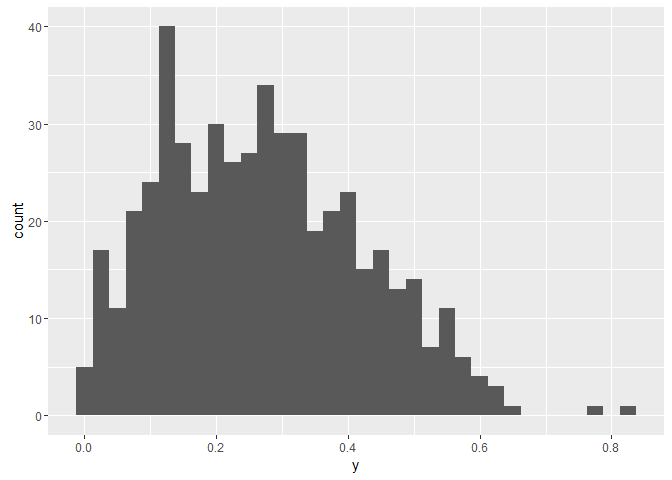
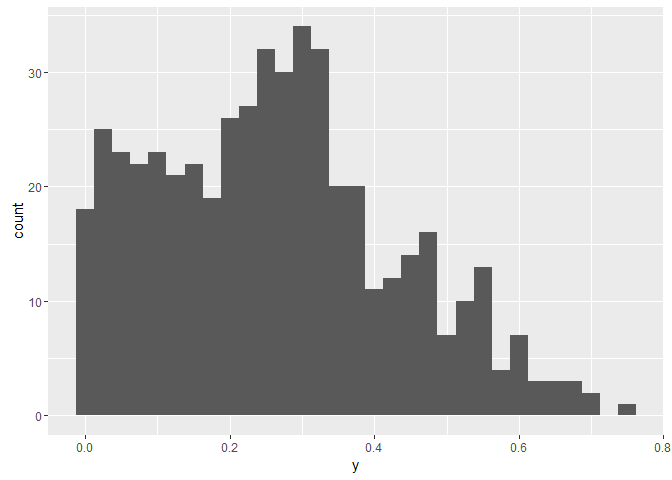
Updated with regression on precision term and posterior predictive check.

diff --git a/README.md b/README.md
@@ -16,16 +16,19 @@ library(betareg)
 library(rstan)
 library(dplyr)
 
+
 N = 500
 x1 = rnorm(N)
 x2 = rnorm(N)
 X = cbind(1, x1, x2)
 beta = c(-1,.2,-.3)
-mu = plogis(X%*%beta)  # add noise if desired + rnorm(N, sd=.01)
-phi = 10
+gamma = c(2, .25, -.5)
+mu = plogis(X %*% beta)  # add noise if desired + rnorm(N, sd=.01)
+phi = exp(X %*% gamma)
 A = mu*phi
 B = (1-mu)*phi
 y = rbeta(N, A, B)
+
 qplot(y, geom = "histogram", binwidth = .025)
 ```
 
@@ -37,34 +40,37 @@ betareg
 The simulated data can be fit using the `betareg` package as follow:
 
 ``` r
-brmod <- betareg(y ~ ., data = data.frame(y, X[,-1]))
+brmod <- betareg(y ~ x1 + x2 | x1 + x2, data = data.frame(y, X[,-1]))
 summary(brmod)
 ```
 
     ## 
     ## Call:
-    ## betareg(formula = y ~ ., data = data.frame(y, X[, -1]))
+    ## betareg(formula = y ~ x1 + x2 | x1 + x2, data = data.frame(y, X[, 
+    ##     -1]))
     ## 
     ## Standardized weighted residuals 2:
     ##     Min      1Q  Median      3Q     Max 
-    ## -3.6621 -0.5703  0.0347  0.7317  2.5384 
+    ## -4.3998 -0.5784  0.0593  0.6774  2.3467 
     ## 
     ## Coefficients (mean model with logit link):
     ##             Estimate Std. Error z value Pr(>|z|)    
-    ## (Intercept) -1.03877    0.03066 -33.881   <2e-16 ***
-    ## x1           0.24226    0.02922   8.292   <2e-16 ***
-    ## x2          -0.37251    0.02970 -12.544   <2e-16 ***
+    ## (Intercept) -1.05873    0.03716 -28.495  < 2e-16 ***
+    ## x1           0.25838    0.03343   7.729 1.09e-14 ***
+    ## x2          -0.30739    0.03049 -10.083  < 2e-16 ***
     ## 
-    ## Phi coefficients (precision model with identity link):
-    ##       Estimate Std. Error z value Pr(>|z|)    
-    ## (phi)  10.3718     0.6381   16.25   <2e-16 ***
+    ## Phi coefficients (precision model with log link):
+    ##             Estimate Std. Error z value Pr(>|z|)    
+    ## (Intercept)  2.04080    0.06145  33.211  < 2e-16 ***
+    ## x1           0.18170    0.06270   2.898  0.00376 ** 
+    ## x2          -0.58584    0.05986  -9.786  < 2e-16 ***
     ## ---
     ## Signif. codes:  0 '***' 0.001 '**' 0.01 '*' 0.05 '.' 0.1 ' ' 1 
     ## 
     ## Type of estimator: ML (maximum likelihood)
-    ## Log-likelihood: 353.8 on 4 Df
-    ## Pseudo R-squared: 0.3029
-    ## Number of iterations: 12 (BFGS) + 3 (Fisher scoring)
+    ## Log-likelihood: 366.3 on 6 Df
+    ## Pseudo R-squared: 0.2203
+    ## Number of iterations: 23 (BFGS) + 1 (Fisher scoring)
 
 Stan
 ----
@@ -76,43 +82,72 @@ stan_beta <- "
 data {
   int<lower=1> N;
   int<lower=1> K;
+  int<lower=1> J;
   vector<lower=0,upper=1>[N] y;
   matrix[N,K] X;
-
+  matrix[N,J] Z;
 }
 
 parameters {
-  vector[K] gamma;
-  real<lower=0> phi;
+  vector[K] beta;
+  vector[J] gamma;
 }
+
 transformed parameters{
-  vector<lower=0,upper=1>[N] mu;    // transformed linear predictor
+  vector<lower=0,upper=1>[N] mu;    // transformed linear predictor for mean of beta distribution
+  vector<lower=0>[N] phi;           // transformed linear predictor for precision of beta distribution
   vector<lower=0>[N] A;             // parameter for beta distn
   vector<lower=0>[N] B;             // parameter for beta distn
 
-  for (i in 1:N)
-    mu[i] = inv_logit(X[i,] * gamma);   
-  A = mu * phi;
-  B = (1.0 - mu) * phi;
-}
-model {
+  for (i in 1:N) {
+    mu[i]  = inv_logit(X[i,] * beta);   
+    phi[i] = exp(Z[i,] * gamma);
+  }
 
+  A = mu .* phi;
+  B = (1.0 - mu) .* phi;
+}
+
+model {
   // priors
-  // gamma ~ normal(0, 1);   
-  // phi ~ cauchy(0, 5);               // different options for phi  
-  // phi ~ inv_gamma(.001, .001);
-  // phi ~ uniform(0, 500);          // put upper on phi if using this
+
   // likelihood
   y ~ beta(A, B);
+}
 
+generated quantities{
+  vector[N] log_lik;
+  vector[N] log_lik_rep;
+  vector<lower=0,upper=1>[N] y_rep;
+  real total_log_lik;
+  real total_log_lik_rep;
+  
+  int<lower=0, upper=1> p_omni;
+
+  for (n in 1:N) {
+    log_lik[n] = beta_lpdf(y[n] | A[n], B[n]);
+    y_rep[n] = beta_rng(A[n], B[n]);
+    log_lik_rep[n] = beta_lpdf(y_rep[n] | A[n], B[n]);
+  }
+
+  total_log_lik = sum(log_lik);
+  total_log_lik_rep = sum(log_lik_rep);
+
+  p_omni = (total_log_lik_rep > total_log_lik);
 }
 "
+
 # Stan data list
-dat = list(N = length(y), K=ncol(X), y=y, X=X)
+dat = list(N = length(y), 
+            K = dim(X)[2], 
+            J = dim(X)[2], 
+            y = y, 
+            X = X, 
+            Z = X)
 
 beta_stan_test <- stan(model_code = stan_beta,
      data       = dat,
-     pars       = c("gamma", "phi"))
+     pars       = c("beta", "gamma"))
 ```
 
 Which yields the following output:
@@ -121,15 +156,19 @@ Which yields the following output:
 summary(beta_stan_test)$summary
 ```
 
-    ##                 mean      se_mean         sd        2.5%         25%
-    ## gamma[1]  -1.0399200 0.0006063061 0.02884446  -1.0977598  -1.0586607
-    ## gamma[2]   0.2425668 0.0005165253 0.02881212   0.1839529   0.2229884
-    ## gamma[3]  -0.3727148 0.0005457226 0.02868729  -0.4284929  -0.3918674
-    ## phi       10.3567588 0.0120873295 0.60107470   9.2464216   9.9451109
-    ## lp__     354.2984507 0.0319870707 1.33182889 350.9633669 353.6696538
+    ##                 mean      se_mean         sd         2.5%         25%
+    ## beta[1]   -1.0578794 0.0007575893 0.03608624  -1.12759651  -1.0815517
+    ## beta[2]    0.2581059 0.0006553616 0.03241052   0.19501445   0.2359702
+    ## beta[3]   -0.3081080 0.0006124709 0.03027841  -0.36678773  -0.3283686
+    ## gamma[1]   2.0333819 0.0010891327 0.05736496   1.91889965   1.9960479
+    ## gamma[2]   0.1807282 0.0012270606 0.06054601   0.06326312   0.1396756
+    ## gamma[3]  -0.5823571 0.0011409566 0.05954167  -0.69159932  -0.6231347
+    ## lp__     363.5091644 0.0351565363 1.62791282 359.63406528 362.6484299
     ##                  50%         75%       97.5%    n_eff      Rhat
-    ## gamma[1]  -1.0396760  -1.0206071  -0.9834121 2263.295 0.9994734
-    ## gamma[2]   0.2428035   0.2618348   0.2970961 3111.483 1.0012840
-    ## gamma[3]  -0.3723893  -0.3537642  -0.3175180 2763.345 1.0017644
-    ## phi       10.3367363  10.7655099  11.5955123 2472.841 1.0007849
-    ## lp__     354.6182545 355.2764974 355.9210539 1733.596 1.0009945
+    ## beta[1]   -1.0580193  -1.0339042  -0.9864024 2268.902 1.0000020
+    ## beta[2]    0.2572134   0.2802980   0.3216711 2445.738 1.0002806
+    ## beta[3]   -0.3081388  -0.2871839  -0.2488962 2443.966 1.0003315
+    ## gamma[1]   2.0339171   2.0713004   2.1465796 2774.162 1.0016114
+    ## gamma[2]   0.1823890   0.2207172   0.2995250 2434.664 1.0002753
+    ## gamma[3]  -0.5827447  -0.5423281  -0.4673546 2723.351 0.9995771
+    ## lp__     363.8145141 364.6830328 365.7126174 2144.125 1.0012037
